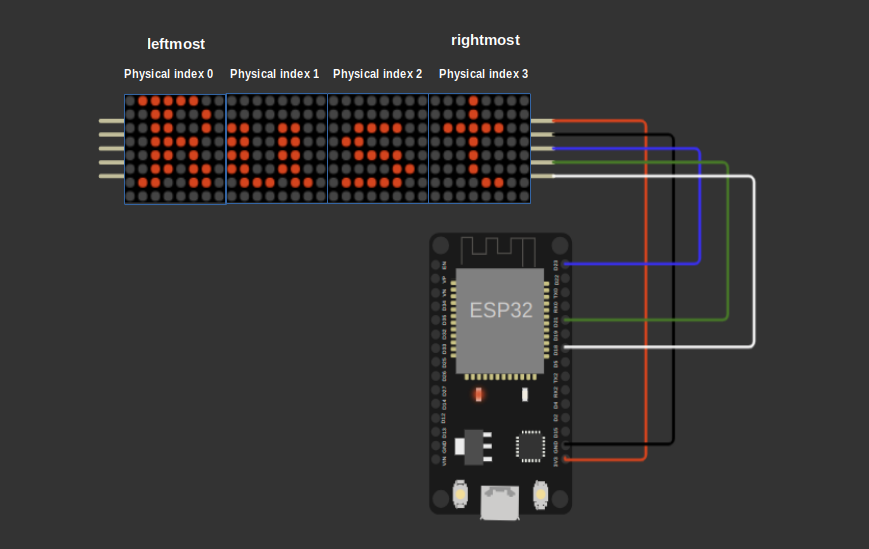
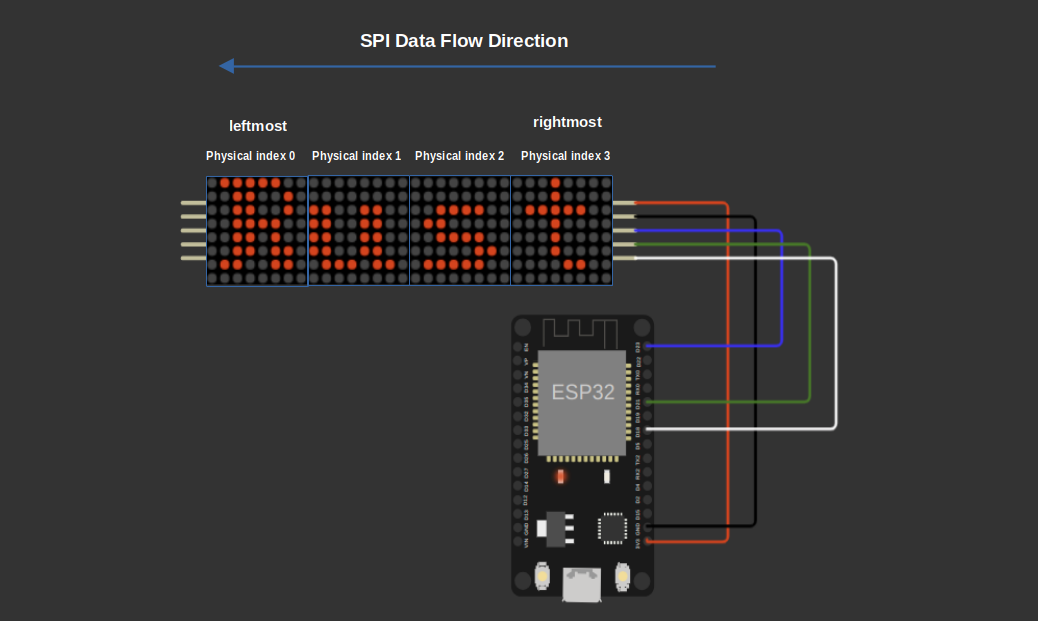
diagram for visualizing device index and SPI

Changed region(s): [[0.0932, 0.031, 0.87, 0.9909]]

diff --git a/src/max7219/driver-implementation/spi-write.md b/src/max7219/driver-implementation/spi-write.md
@@ -10,13 +10,6 @@ If there is just a single device (device index 0, which is the closest to the mi
 
 When there are multiple devices, we write at the right offset for the target device, and the rest of the buffer remains zeros (no-ops) to avoid affecting other devices.
 
-<div style="text-align: center;">
-  <a href="../images/max7219-daisy-chain-indices.png"><img style="display: block; margin: auto;" alt="Max7219 Devices Device Indices" src="../images/max7219-daisy-chain-indices.png"/></a>
-  <figcaption style="font-style: italic; margin-top: 8px; color: #555;">
-    Figure 1: 4 daisy-chained Max7219 device Indices
-  </figcaption>
-</div> 
-
 For example, if there are 4 devices and we want to write to the device at index 2 (the third device from the left), the offset for the register address is 2 * 2 = 4, and the data byte goes at index 5.
 
 So the full data sent through SPI will look like this (2 bytes per device):
@@ -51,11 +44,20 @@ pub(crate) fn write_device_register(
 
 ## Writing to All Device Registers at Once
 
-The second function, `write_all_registers`, lets us send register updates to all devices in the daisy chain at once using a single SPI transaction. This makes it efficient for actions like powering on all devices, changing brightness, or other settings that apply to every display.
+We will create a second function called `write_all_registers` that allows us to send register updates to every device in the daisy chain in a single SPI transaction. This approach is more efficient for operations such as powering on all devices, adjusting brightness, or applying other settings to all displays at once.
+
+<div style="text-align: center;">
+  <a href="../images/max7219-daisy-chain-indices.png"><img style="display: block; margin: auto;" alt="Max7219 Devices Device Indices" src="../images/max7219-daisy-chain-indices.png"/></a>
+  <figcaption style="font-style: italic; margin-top: 8px; color: #555;">
+    Figure 1: 4 daisy-chained Max7219 device Indices
+  </figcaption>
+</div> 
 
 It takes a slice of (Register, u8) tuples, where each tuple contains the register and data for each device in the chain.
 
-We start by clearing the buffer. Then, we fill it in reverse order because SPI shifts data starting from the last device in the chain to the first. This means the data for the last device goes at the beginning of the buffer, and the data for the first device goes at the end. 
+We start by clearing the buffer. Then we start filling packets for each devices. The packet we write in the first index of the array goes to leftmost device.
+
+> In a daisy chain, the MAX7219 shifts data starting from the rightmost device, which is closest to the microcontroller, toward the leftmost device. So when SPI sends data starting at index 0 in the buffer, that packet actually ends up at the leftmost device.
 
 For example, if we have 4 devices and want to send register-data pairs to all, the buffer fills like this:
 
